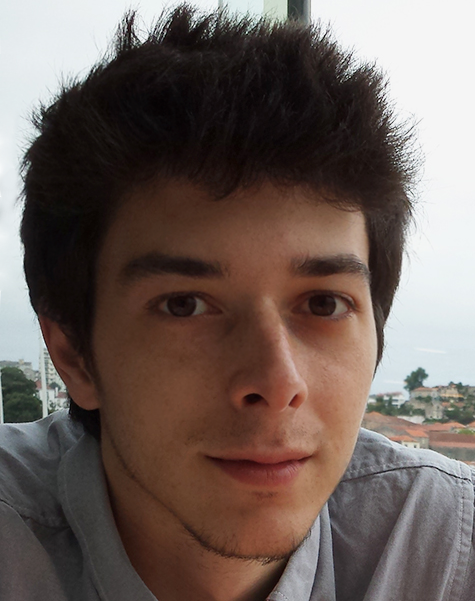
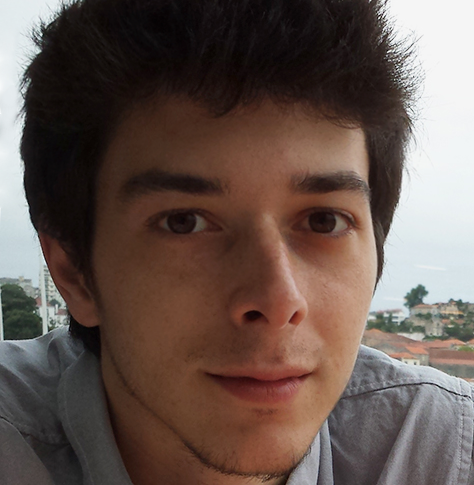
fixed image

diff --git a/index.html b/index.html
@@ -24,10 +24,10 @@
             <h4 class="brand-logo" id="logo-container">About Me</h4>
             <ul class="right hide-on-med-and-down">
               <li>
-                <a class="dropdown-button btn" data-activates='dropdown1'>Other WebSites</a>
+                <a class="dropdown-button btn" data-activates='dropdown1'>Other WebSites <i class="material-icons">arrow_drop_down</i></a>
                 <ul id='dropdown1' class='dropdown-content m-t-2 m-l-2'>
                   <li>
-                    <a target="_blank" href="http://JoaoSetas.github.io/AngularCourse/">Angular Course(Made while completing a online Course)</a>
+                    <a target="_blank" href="http://JoaoSetas.github.io/AngularCourse/">Angular Course<br>(Made while completing a online Course)</a>
                   </li>
                 </ul>
               </li>

diff --git a/css/style.css b/css/style.css
@@ -2,6 +2,10 @@ body{
   background: linear-gradient(to bottom right, #c1c1d9 , #f7ebd3);
 }
 
+#fotoPerfil{
+  height: 15rem;
+}
+
 .myInfo{
   background: linear-gradient(to bottom right, #7979cf48 , #f6f87110);
 }
@@ -79,7 +83,7 @@ nav .brand-logo{
 }
 
 .dropdown-content{
-  border-radius: 10px;
+  border-radius: 4px;
 }
 
 .dropdown-content li>a{
